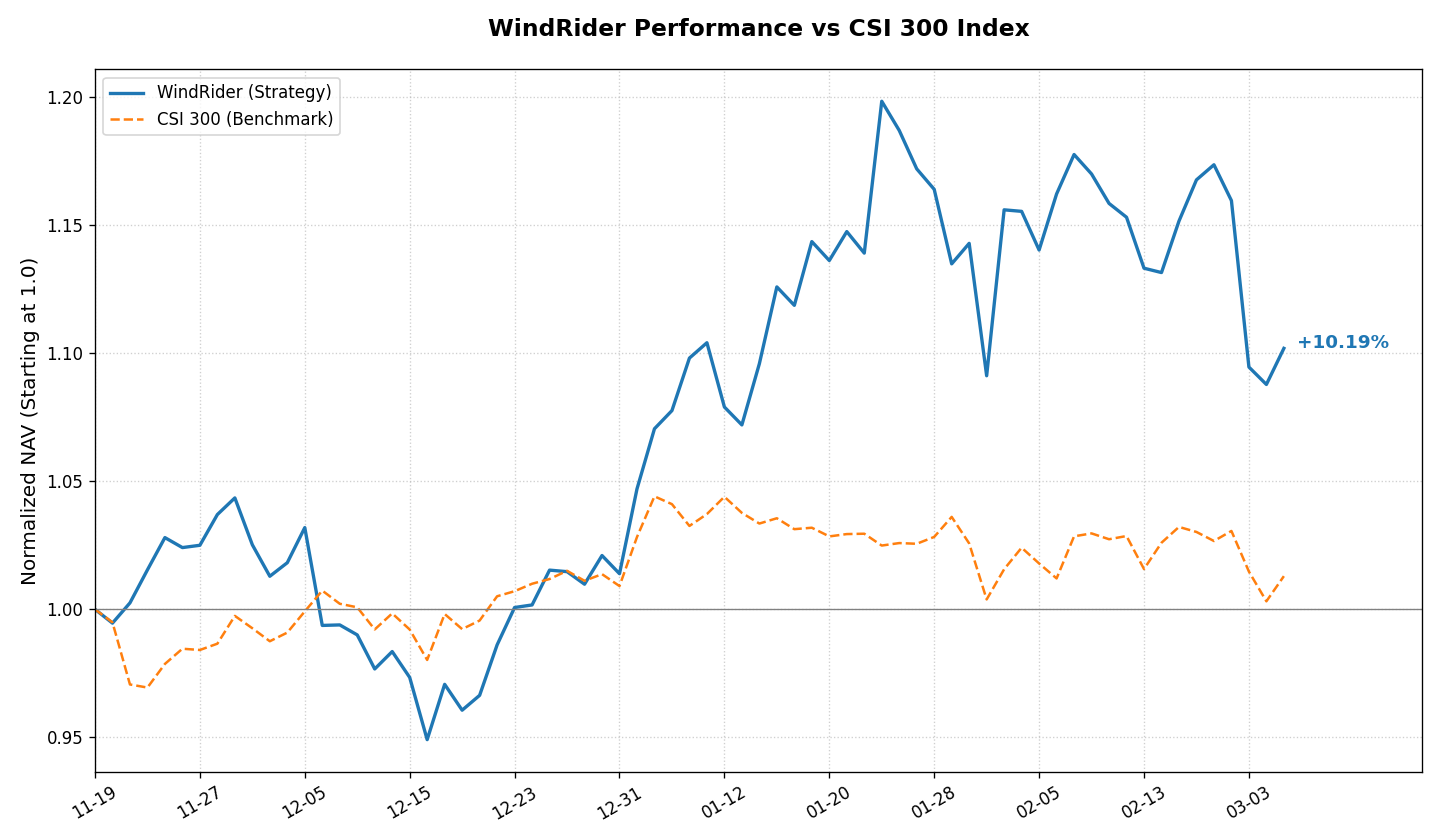
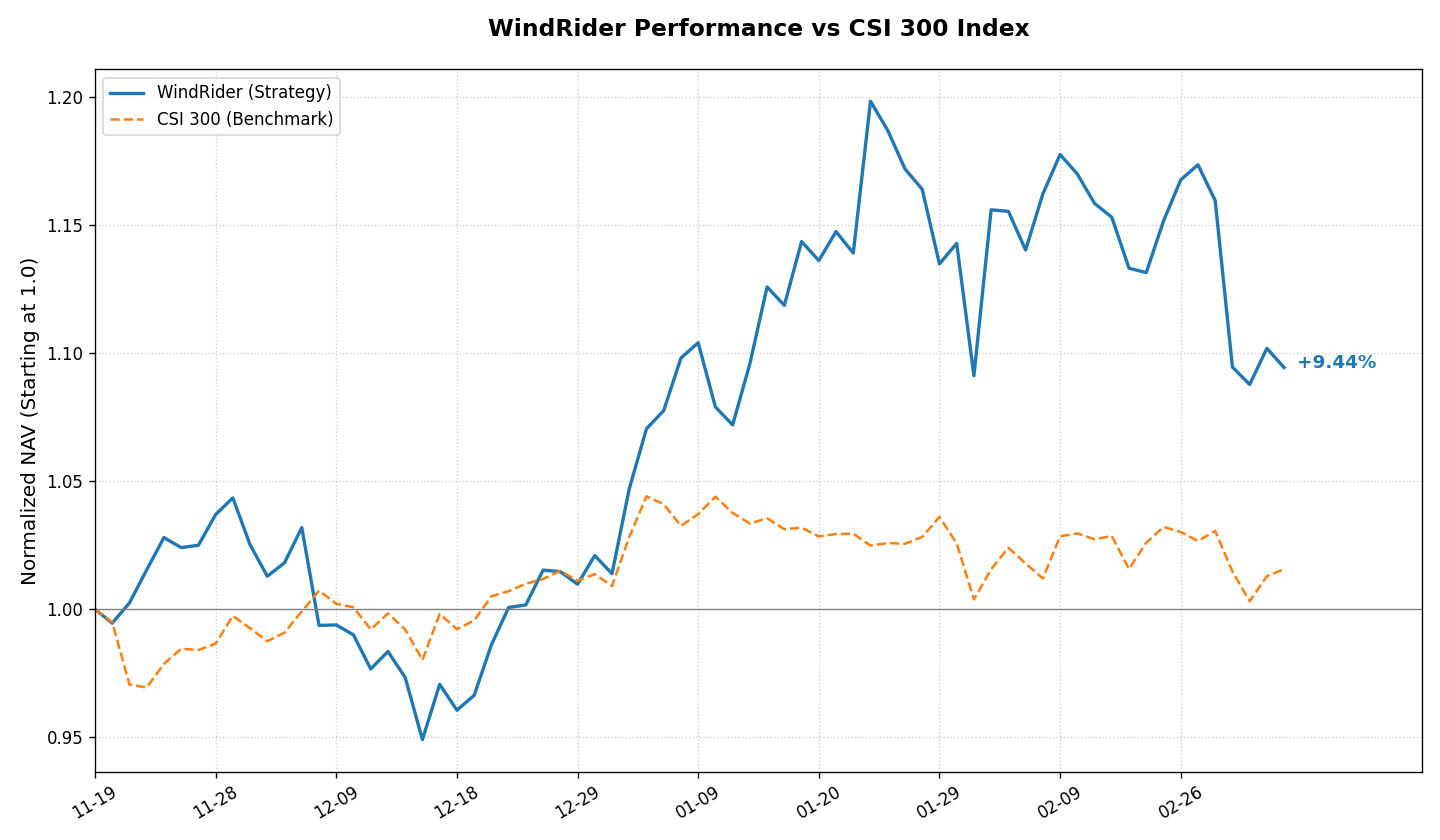
Updated Hugo site content

diff --git a/content/investment/position.md b/content/investment/position.md
@@ -1,8 +1,8 @@
 +++
 title = "如山-股票组合持仓 /// Position"
 summary = "主动管理型股票组合。对标沪深300指数，采用基本面选股策略。"
-date = 2026-03-05T15:10:09+08:00
-lastmod = 2026-03-05T15:10:09+08:00
+date = 2026-03-06T15:10:06+08:00
+lastmod = 2026-03-06T15:10:06+08:00
 draft = false
 description = "如山股票组合持仓"
 +++
@@ -12,29 +12,29 @@ description = "如山股票组合持仓"
 
 ### 风舵股票组合 &nbsp;&nbsp;<span style="color: #E63946; font-weight: bold;">/</span><span style="color: #F1A73E; font-weight: bold;">/</span><span style="color: #000091; font-weight: bold;">/</span>&nbsp;&nbsp; 每日持仓
 WindRider Equity Portfolio <br>
-净值简报 <small>(截至: 2026-03-05)</small>
+净值简报 <small>(截至: 2026-03-06)</small>
 
 |  |  |
 | :--- | :--- |
 | **指数代码：** | WDR.EQ |
 | **成立日期：** | 2025-11-19 |
-| **最新净值：** | 1.1019 |
-| **今日涨跌：** | +1.30% |
+| **最新净值：** | 1.0944 |
+| **今日涨跌：** | -0.68% |
 
 ===========================
 
 | 核心表现 | |
 | :--- | :--- |
-| **累计收益：** | +10.19% |
-| **年化收益：** | +39.67% |
+| **累计收益：** | +9.44% |
+| **年化收益：** | +36.03% |
 | **最大回撤：** | -9.23% |
-| **基准点位：** | 4647.69 (CSI300) |
-| **策略状态：** | 已运行 107 天 |
+| **基准点位：** | 4660.44 (CSI300) |
+| **策略状态：** | 已运行 108 天 |
 
 ### 持仓明细
 | 股票名称 | 成本价 | 现价 | 盈亏 | 占比 |
 | :--- | :--- | :--- | :--- | :--- | :--- |
-| 先导智能 <small>300450</small> | 52.17 | 50.50 | <span style="color:#2A9D8F">-3.20%</span> | 95.22% |
+| 先导智能 <small>300450</small> | 52.17 | 50.14 | <span style="color:#2A9D8F">-3.89%</span> | 95.19% |
 
 <br>
 
